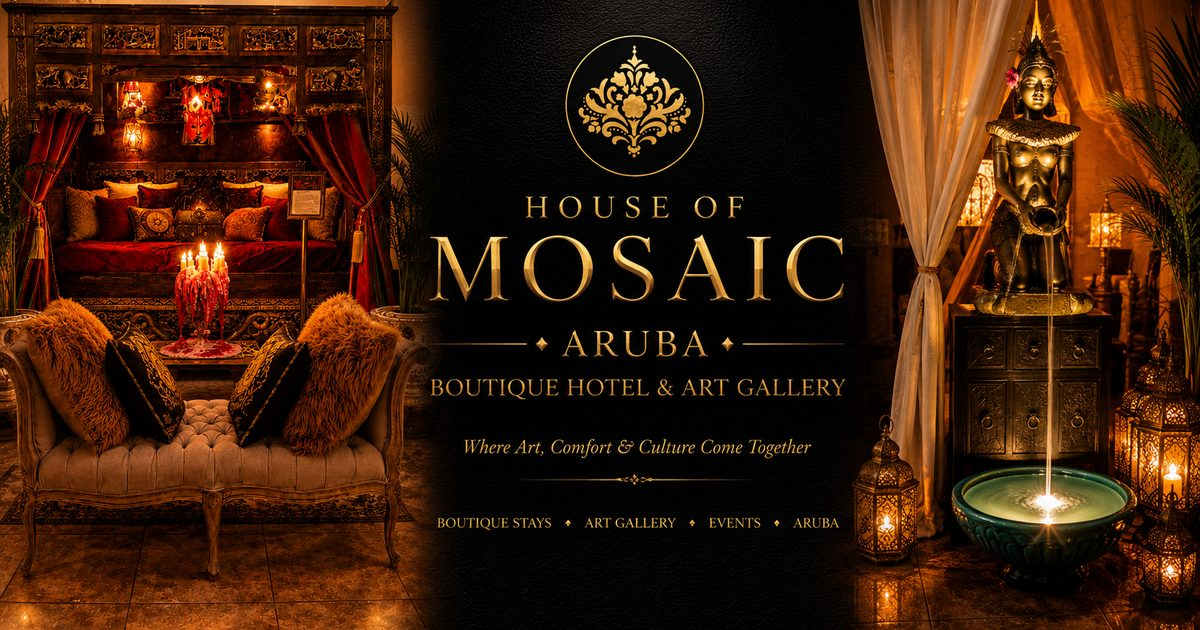
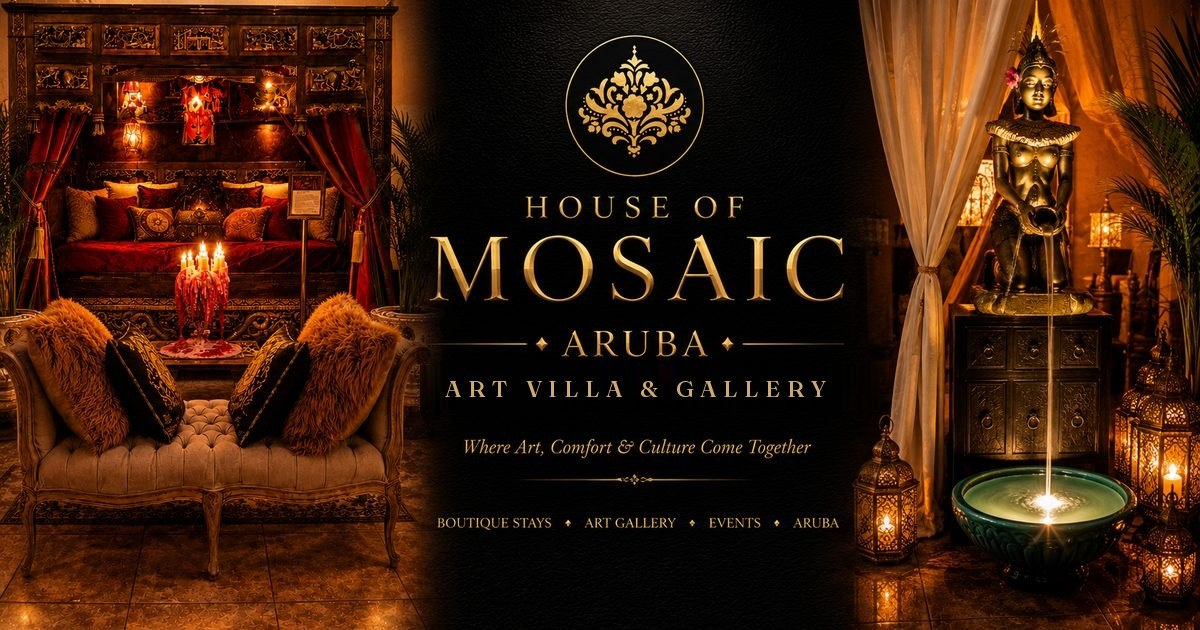
Rebrand: swap Boutique Hotel text out of the social-share image, update README
og-image.jpg (the Open Graph / Twitter card preview) had 'BOUTIQUE HOTEL & ART GALLERY' baked into the graphic itself, so every shared link still showed the old branding regardless of the meta tags. Patched that line out and reset it as 'ART VILLA & GALLERY' in the site's own Fraunces display font, matching the original gold color, tracking and scale, background reconstructed underneath so there's no visible seam. README.md's one-line description also updated from 'boutique hotel' to 'art villa'.

diff --git a/README.md b/README.md
@@ -1,6 +1,6 @@
 # House of Mosaic Aruba
 
-One-page website for House of Mosaic Aruba — boutique hotel, art gallery & event garden in Oranjestad.
+One-page website for House of Mosaic Aruba — art villa, gallery & event garden in Oranjestad.
 
 Fully self-contained `index.html` (fonts and photos embedded). Deployed automatically to GitHub Pages on every push to `main`.
 
